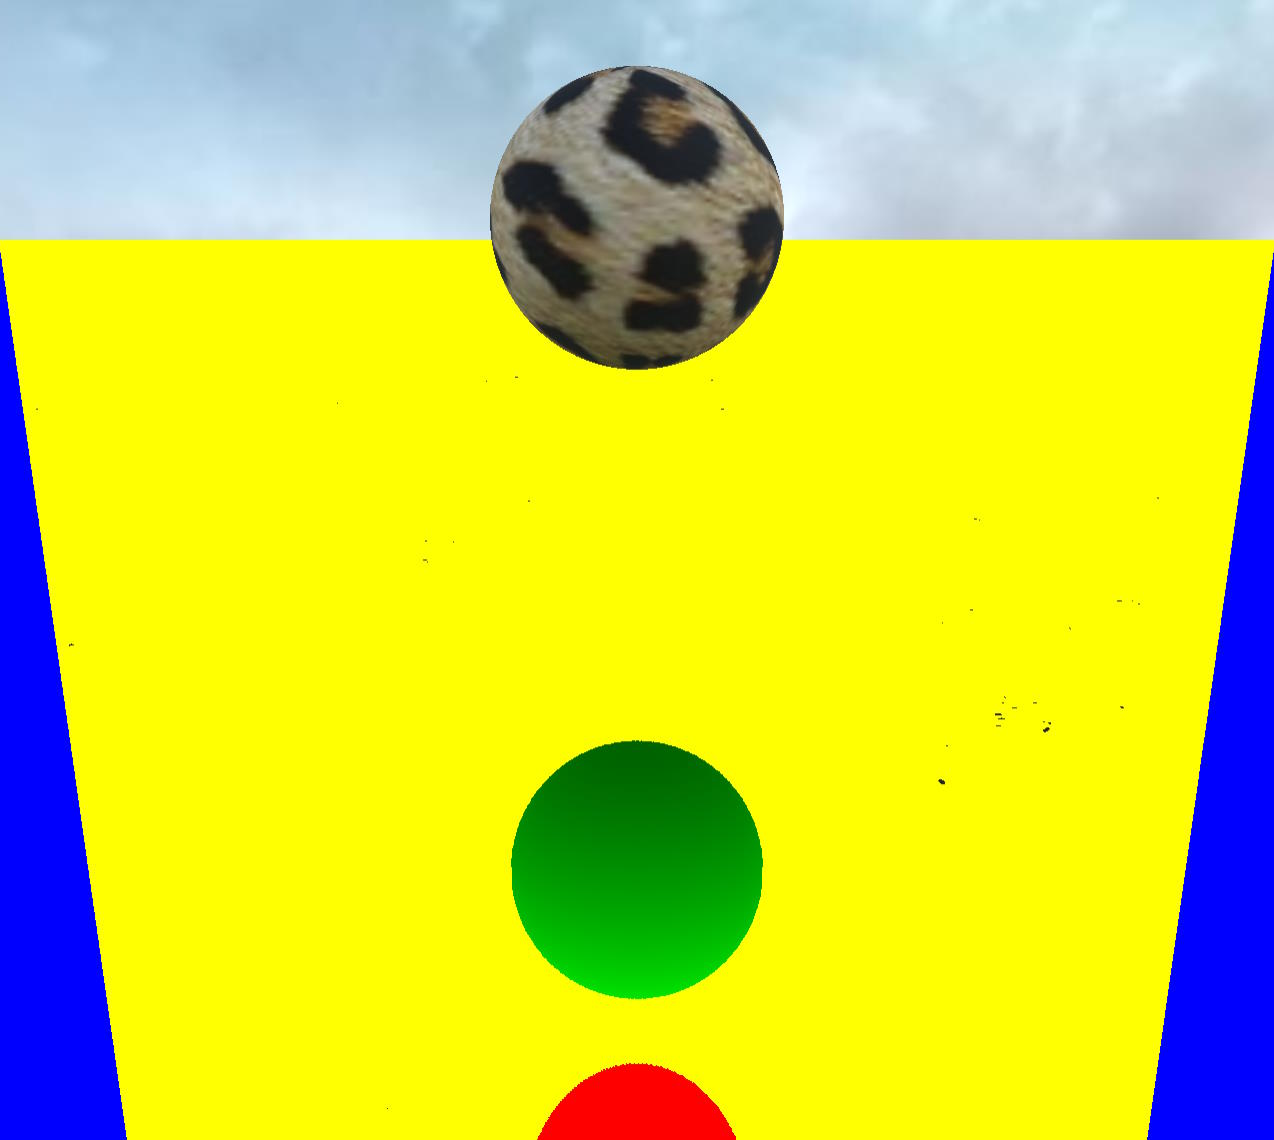
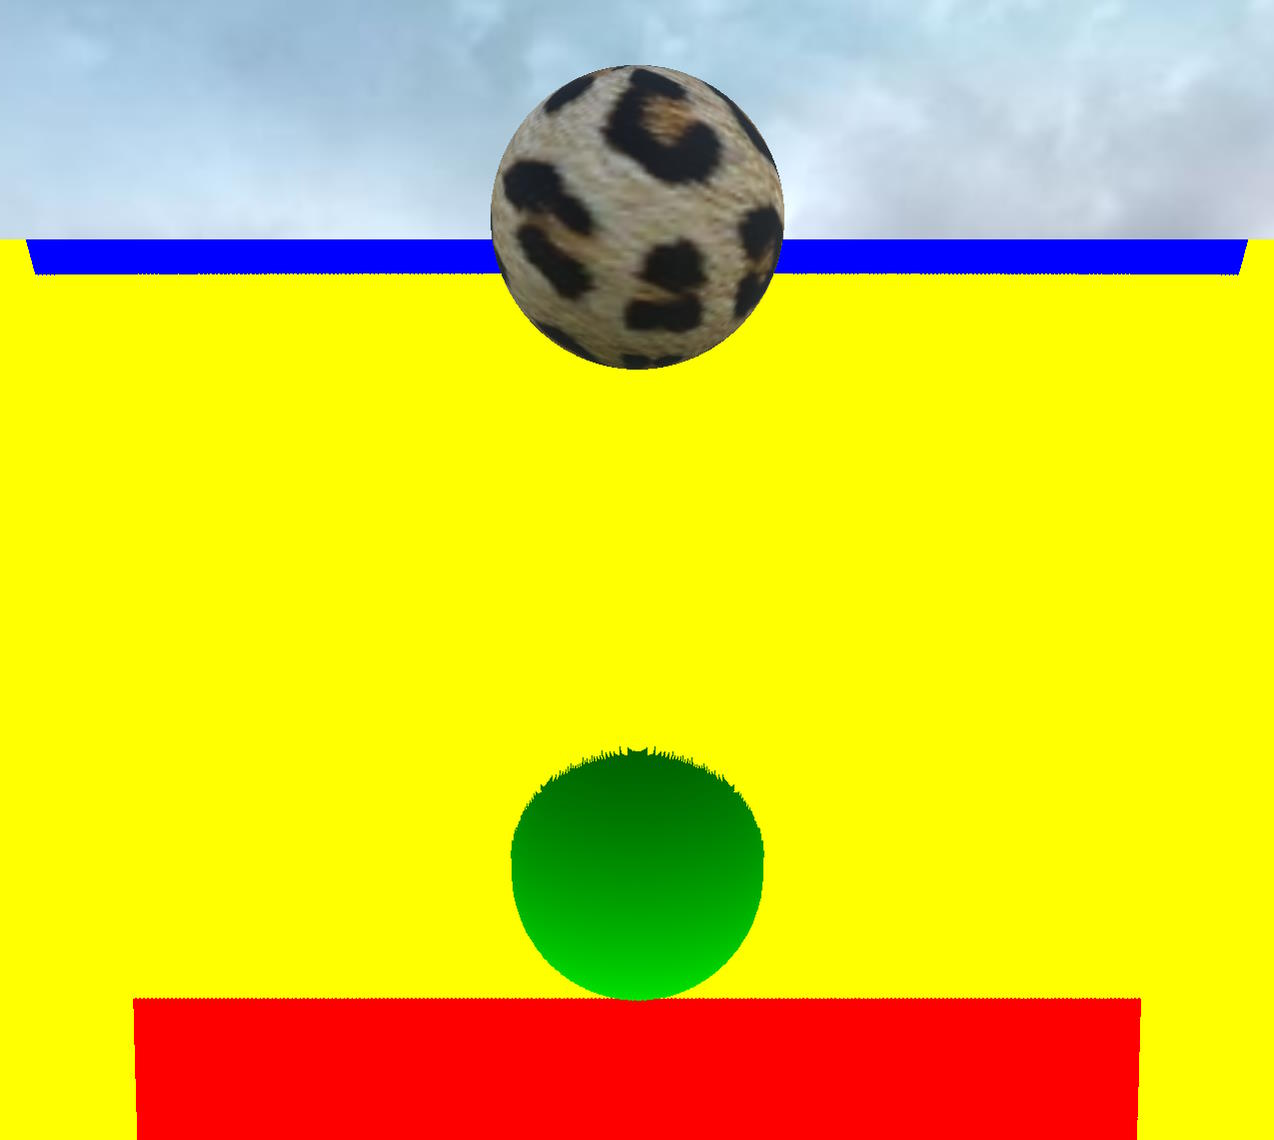
More doc

diff --git a/content/features/featuresDeepDive/postProcesses/ssrRenderingPipeline.md b/content/features/featuresDeepDive/postProcesses/ssrRenderingPipeline.md
@@ -26,10 +26,12 @@ Here's a comparison of rendering with and without the SSR rendering pipeline ena
 | --- | --- |
 | ![With SSR](/img/how_to/ssrRenderingPipeline/intro_with_ssr.jpg!500) | ![Without SSR](/img/how_to/ssrRenderingPipeline/intro_without_ssr.jpg!500) |
 | ![With SSR](/img/how_to/ssrRenderingPipeline/intro_with_ssr_balls.jpg!500) | ![Without SSR](/img/how_to/ssrRenderingPipeline/intro_without_ssr_balls.jpg!500) |
+| ![With SSR](/img/how_to/ssrRenderingPipeline/intro_with_ssr_brainstem.jpg!500) | ![Without SSR](/img/how_to/ssrRenderingPipeline/intro_without_ssr_brainstem.jpg!500) |
 
 Here are the playgrounds that generated the above images:
 * <Playground id="#PIZ1GK#1017" title="SSR Rendering Pipeline Example (Hill Valley)" description="Hill Valley scene with screen space reflections"/>
 * <Playground id="#PIZ1GK#1002" title="SSR Rendering Pipeline Example (Balls)" description="Mirror and Balls scene with screen space reflections"/>
+* <Playground id="#PIZ1GK#1022" title="SSR Rendering Pipeline Example (BrainStem)" description="Robot scene with screen space reflections"/>
 
 ## Prerequisite
 To render reflections using the SSR rendering pipeline, the device must support WebGL 2 or WebGPU. If not supported, the rendering pipeline will just work as a pass-through.
@@ -114,7 +116,7 @@ You don't need to concern yourself with the inner details of these renderers, bu
 
 ### Using MSAA
 
-You should normally choose the pre-pass renderer because the reflectivity color is computed more accurately than with the geometry buffer renderer, but if you want to use MSAA as the antialiasing method, the geometry buffer renderer may be a better choice. That's because MSAA can lead to artifacts when used with the pre-pass renderer.
+You should normally choose the pre-pass renderer because the reflectivity color is computed more accurately than with the geometry buffer renderer and the performances are better overall, but if you want to use MSAA as the antialiasing method, the geometry buffer renderer may be a better choice. That's because MSAA can lead to artifacts when used with the pre-pass renderer.
 
 Here's an example of a scene using MSAA with the geometry buffer and pre-pass renderer:
 | Geometry Buffer | Pre-Pass |
@@ -149,6 +151,8 @@ Also, one thing to note regarding the pre-pass renderer is that by default it's 
 | Geometry Buffer | Pre-Pass with half-float depth |
 | --- | --- |
 | ![Geometry buffer](/img/how_to/ssrRenderingPipeline/geometry_buffer_sphere_debug.jpg!500) | ![Pre-Pass with half-float depth](/img/how_to/ssrRenderingPipeline/pre_pass_sphere_debug.jpg!500) |
+
+Note: `ssr.clipToFrustum` has been set to `false` to take these screenshots because the artifacts are more visible with a yellow background than with a blue one!
 
 You get these artifacts because there's less precision in the depth buffer and consequently you get more self-collisions between the reflected ray and the current surface the ray is shot from (see section 2.1 in [How SSR is working](#how-ssr-is-working)).
 
@@ -230,15 +234,75 @@ strength and reflectionSpecularFalloffExponent
 
 attenuateScreenBorders, attenuateIntersectionDistance, attenuateFacingCamera, attenuateBackfaceReflection
 
-## How to deal with some Artifacts
+## How to deal with Artifacts
 
-enable transparent rendering for the back face depth renderer
-back faces must exist when using enableAutomaticThicknessComputation
+SSR is prone to a lot of artifacts, some of which you can fix and others that are inherent to the technique.
+
+This section will try to describe the most common artifacts and how to fix them when possible, or how to hide them as much as possible when not.
+
+### Artifacts when enabling MSAA with the Pre-Pass renderer
+
+Those artifacts and how to fix them have already been described in the **Geometry buffer or Pre-Pass renderer section**, [Using MSAA](#using-msaa) sub-section.
+For illustration purpose, here's how the artifacts can look like:
+![Artifacts caused by MSAA](/img/how_to/ssrRenderingPipeline/msaa_pre_pass_auto_thickness.jpg!500)
+
+### Artifacts relatd to the depth buffer precision
+Those artifacts and how to fix them have already been described in the **Geometry buffer or Pre-Pass renderer section**, [Depth texture type](#depth-texture-type) sub-section.
+For illustration purpose, here's how the artifacts can look like:
+![Artifacts caused by depth buffer precision](/img/how_to/ssrRenderingPipeline/artifacts_prepass_depth_precision.jpg!500)
+
+### Artifacts with transparent meshes
+
+You should note that the pre-pass renderer handles transparent meshes better than the geometry buffer renderer when using the opacity texture:
+| Geometry Buffer | Pre-Pass |
+| --- | --- |
+| ![Geometry Buffer with transparent mesh](/img/how_to/ssrRenderingPipeline/geometry_buffer_automatic_thickness_mesh_transparent.jpg!500) | ![Pre-Pass with transparent mesh](/img/how_to/ssrRenderingPipeline/prepass_automatic_thickness_mesh_transparent.jpg!500) |
+
+It's still not perfect, you can get artifacts even with the pre-pass renderer (exagerated by setting a full mirroring surface):
+![Artifacts with transparent meshes and pre-pass renderer](/img/how_to/ssrRenderingPipeline/artifacts_prepass_automatic_thickness_mesh_transparent.jpg!500)
+
+Here's the corresponding PG: <Playground id="#PIZ1GK#1032" title="SSR Artifacts (transparent meshes with prepass renderer)" description="SSR Artifacts with the prepass renderer and transparent meshes"/>
+
+There's nothing we can do about it, unfortunately, you will have to be creative to try to hide these defects!
+
+### Artifacts when using enableAutomaticThicknessComputation
+
+For the automatic thickness computation to work, the back faces must exist, so that a thickness can be computed accurately by subtracting the depth read from the back and front depth textures. If some of your objects have front faces only, you will get some ugly artifacts:
+
+| This plane does not have a back face | Some of the objects of the robot don't have back faces |
+| --- | --- |
+| ![Artifacts with plane](/img/how_to/ssrRenderingPipeline/artifacts_automatic_thickness_plane.jpg!500) | ![Artifacts with robot](/img/how_to/ssrRenderingPipeline/artifacts_automatic_thickness_robot.jpg!500) |
+
+The fix is to make sure that all your objects have back faces:
+* for the plane it's easy, simply set `plane.material.backFaceCulling = false`
+* for the robot it is less easy, you would have to find the faulty meshes and either create back faces for them or set `backFaceCulling = false` for their materials. Another solution would be to simply disable the automatic thickness computation!
+
+Here's the PG for the plane example: <Playground id="#PIZ1GK#1024" title="SSR Artifacts (automatic thickness)" description="SSR Artifacts with automatic thickness computation"/>
+
+Note that there's a special case for transparent meshes. In the standard rendering pass, transparent meshes don't write to the depth buffer, so it won't be possible to calculate a correct thickness for those subjects.
+It happens that transparent meshes DO write to the depth texture when using the geometry / pre-pass renderer, but the back face depth renderer created internally when enabling automatic thickness computation doesn't.
+You will need to enable writing depth values for transparent meshes by doing:
+```javascript
+ssr.backfaceDepthRenderer.forceDepthWriteTransparentMeshes = true;
+```
+
+You will get the same kind of artifacts if you don't do it:
+| Artifacts when using transparent material | Artifacts fixed |
+| --- | --- |
+| ![Artifacts with transparent mesh](/img/how_to/ssrRenderingPipeline/artifacts_automatic_thickness_mesh_transparent.jpg!500) | ![Artifacts fixed with transparent meshes](/img/how_to/ssrRenderingPipeline/noartifacts_automatic_thickness_mesh_transparent.jpg!500) |
+
+Here's the PG corresponding to the right screenshot: <Playground id="#PIZ1GK#1031" title="SSR No Artifacts (automatic thickness transparent meshes)" description="SSR No Artifact with automatic thickness computation and transparent meshes"/>
+
+**Important note**: when you change some of the SSR pipeline properties (like `samples`, `blurDispersionStrength`, `enableAutomaticThicknessComputation`, `debug` and others), the full state of the SSR pipeline is recreated. All the property values you set are retained and so the pipeline is recreated in the right state **EXCEPT** for the `backfaceDepthRenderer.forceDepthWriteTransparentMeshes` value, which is not directly owned by the pipeline! So, if you change some of the SSR properties, you will have to re-set the value for `backfaceDepthRenderer.forceDepthWriteTransparentMeshes` afterward.
+
+
+
+
 Screen space technique: Works only with geometry rendered on screen => quand on regarde vers le bas, disparition des reflets / pareil sur les bords de l'écran
 
 
 ---
-To favor speed over quality, you should try to use:
-* big values for `step`
-* small values for `maxSteps` and `maxDistance`
-* disable `enableSmoothReflections`
+To favor speed over quality, you should try to set:
+* as big values as possible for `step`
+* as small values as possible for `maxSteps` and `maxDistance`
+* disable `enableSmoothReflections` - but, with bigger values of `step`, you would probably want to enable this setting
